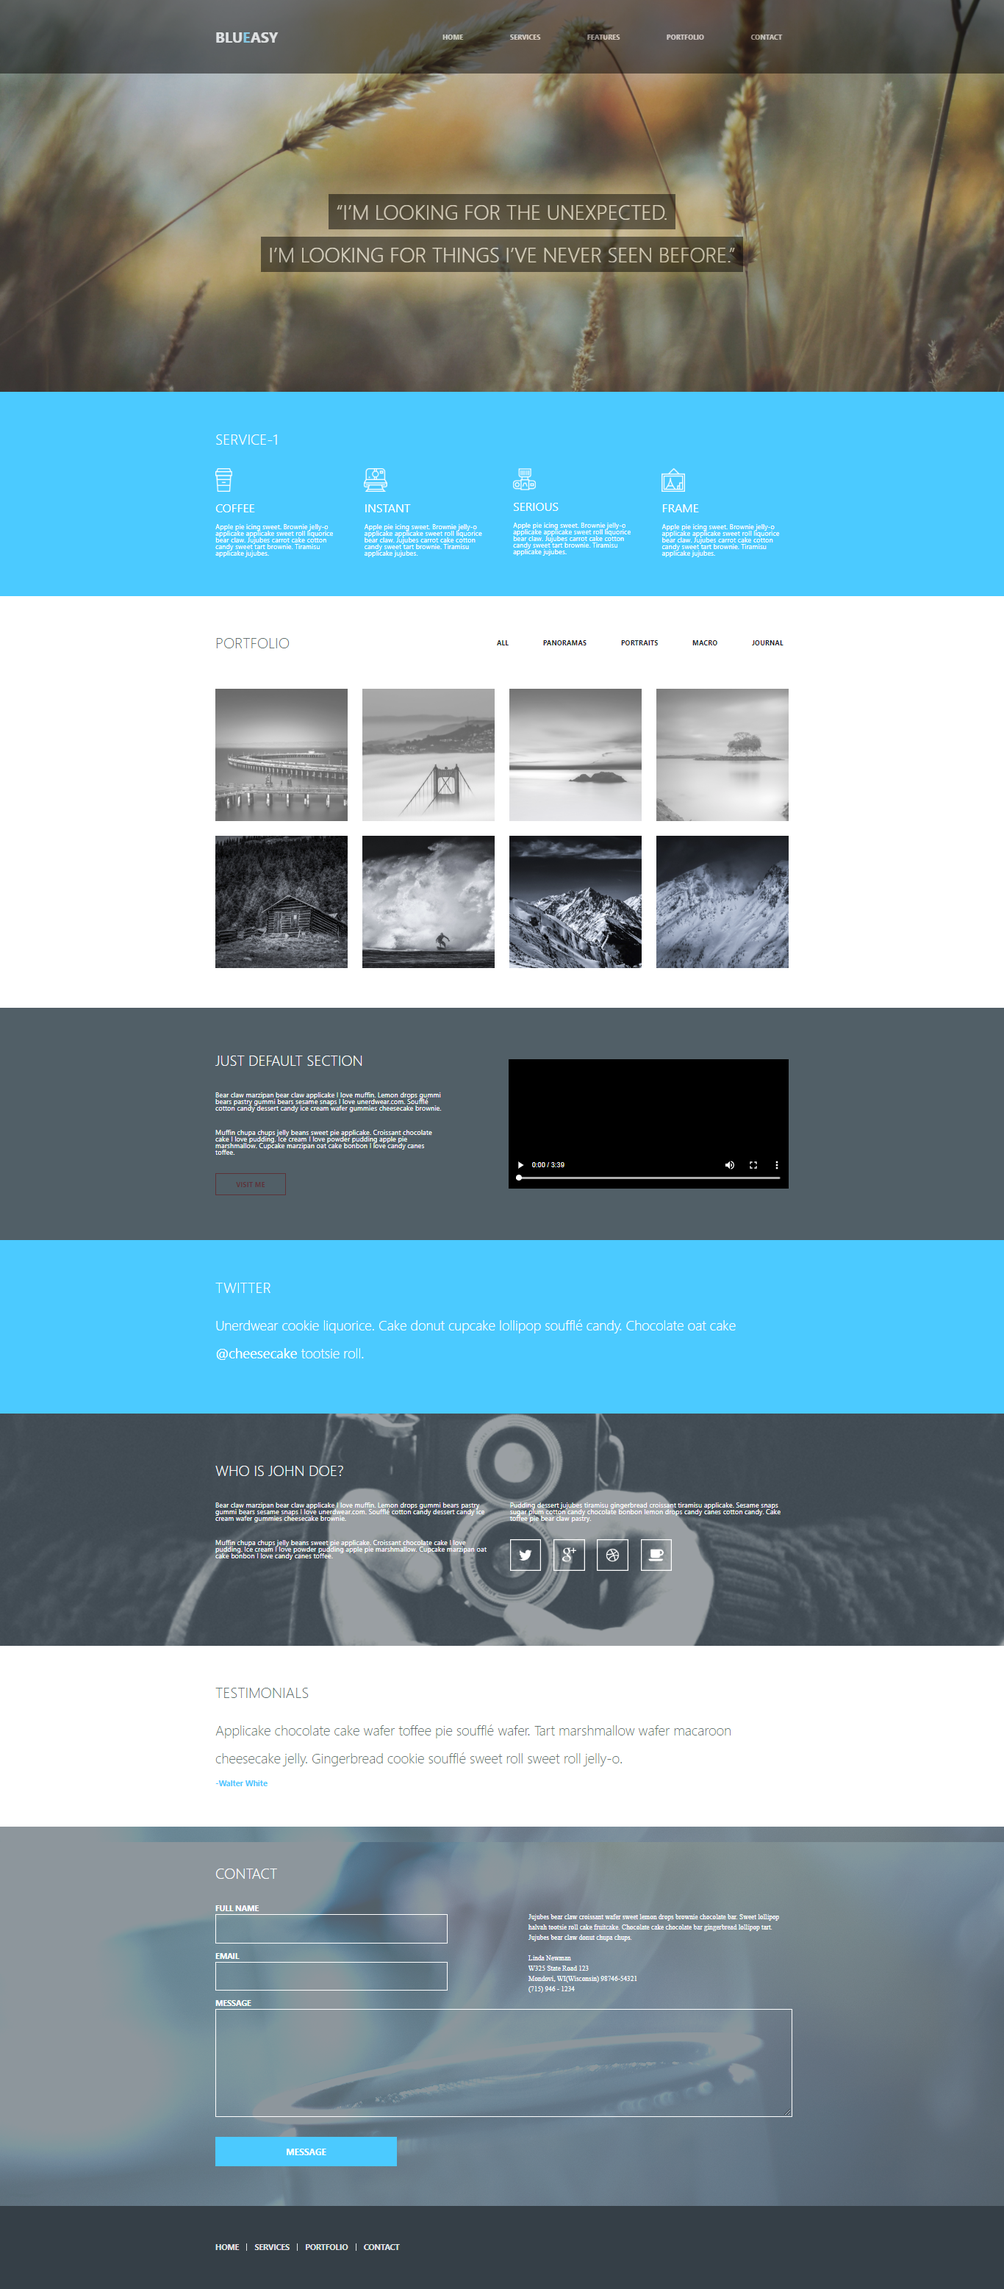
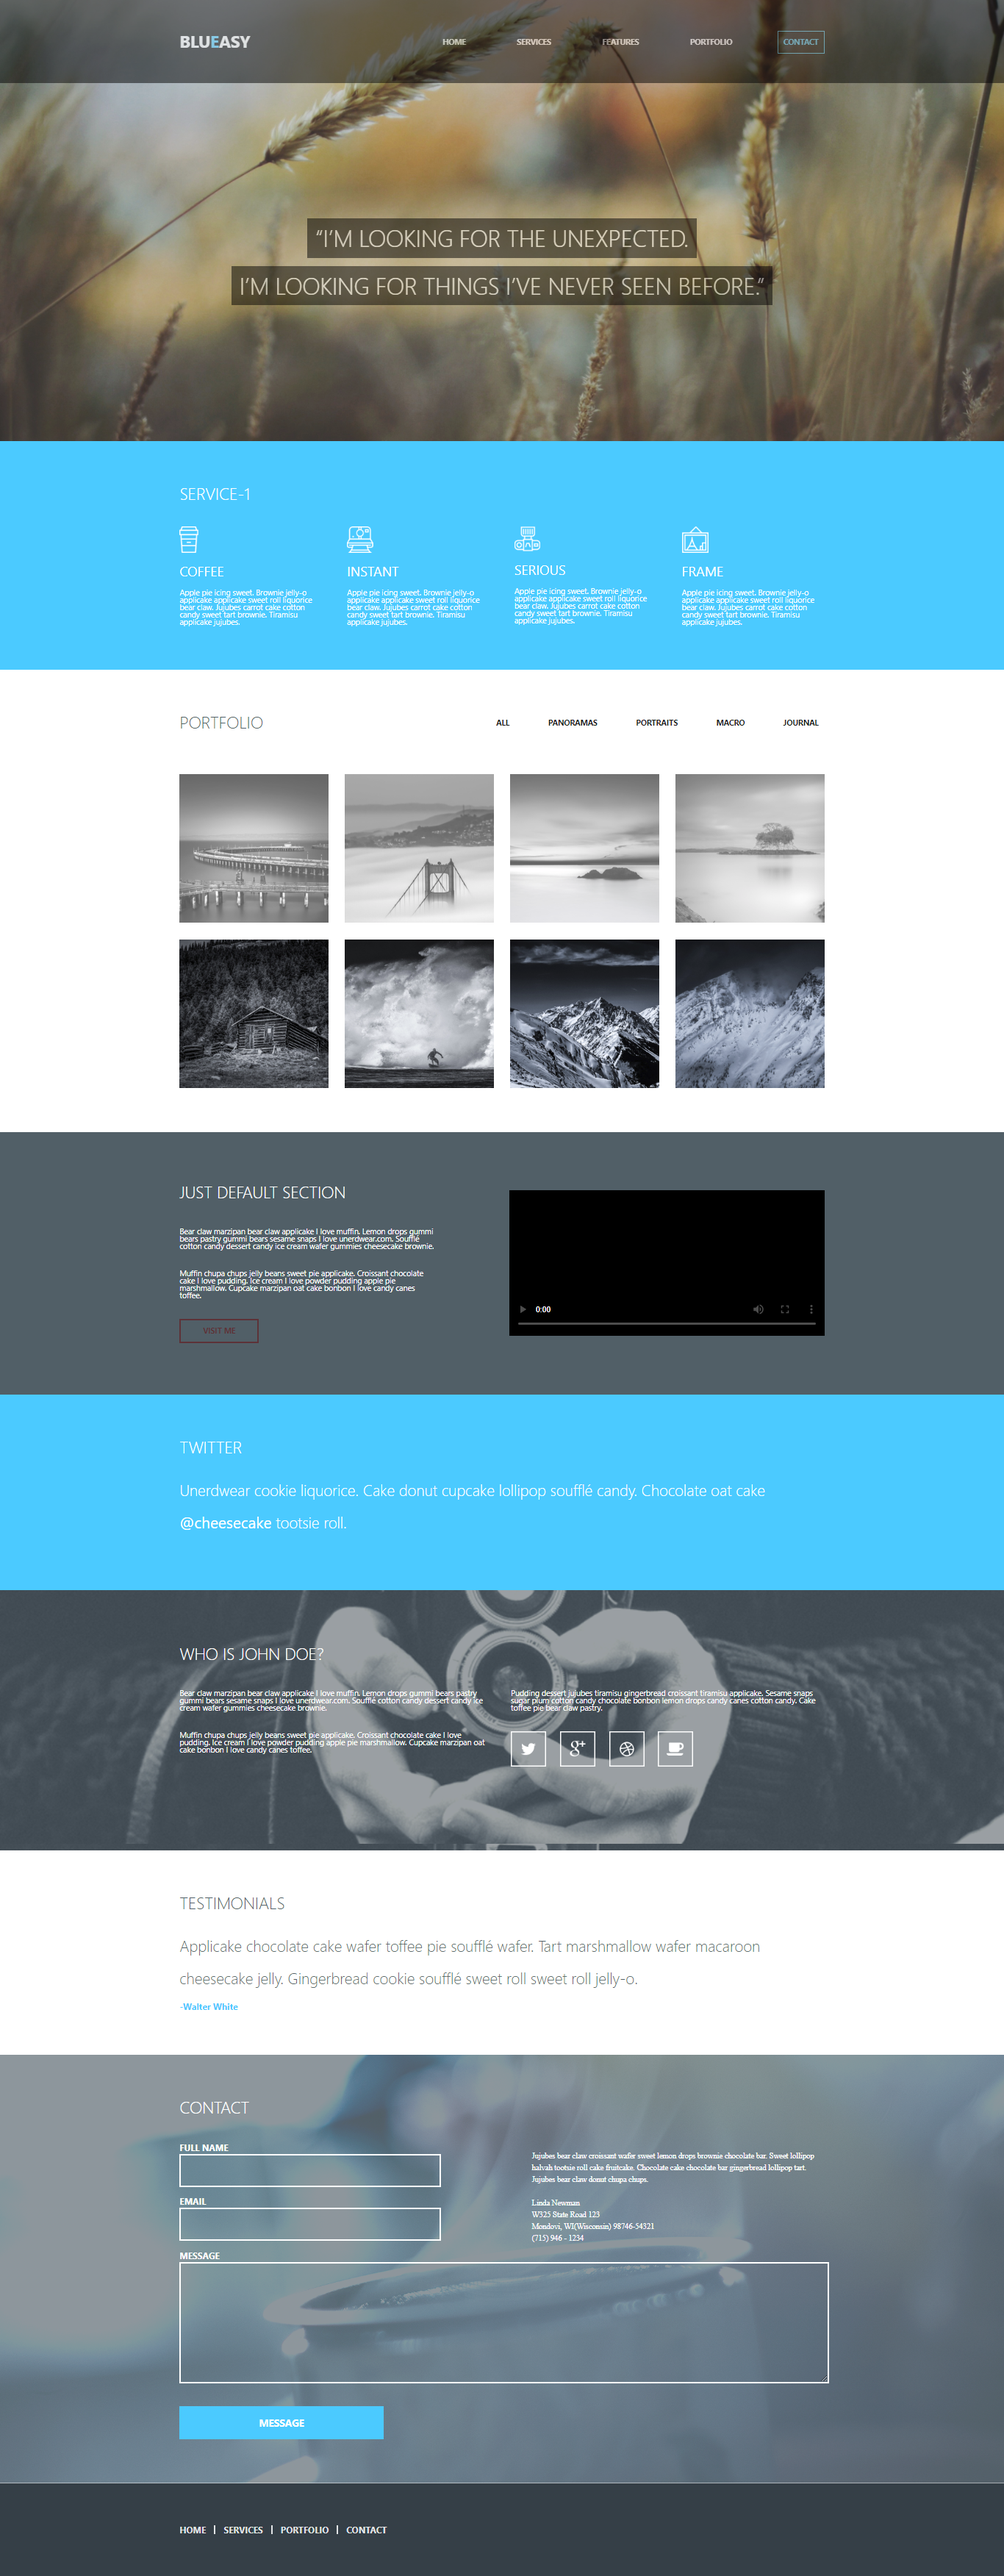
fix

diff --git a/Blueasy Freebie/Gulp + Sass/build/css/all.css b/Blueasy Freebie/Gulp + Sass/build/css/all.css
@@ -1,5 +1,5 @@
 .contact {
-  background: url("../img/contact-bg.png") no-repeat center center fixed;
+  background: url("../img/contact-bg.png") no-repeat center center;
   background-size: cover;
   padding: 80px 0; }
   .contact h3 {
